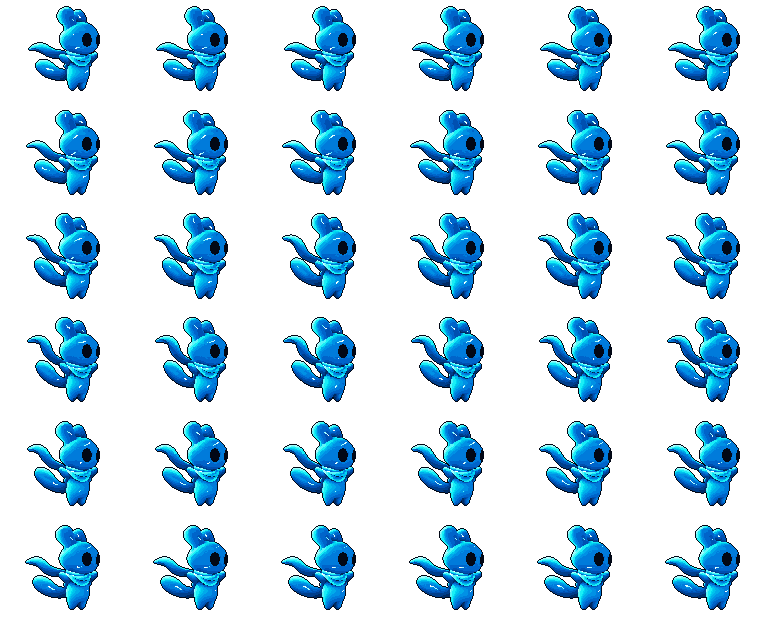
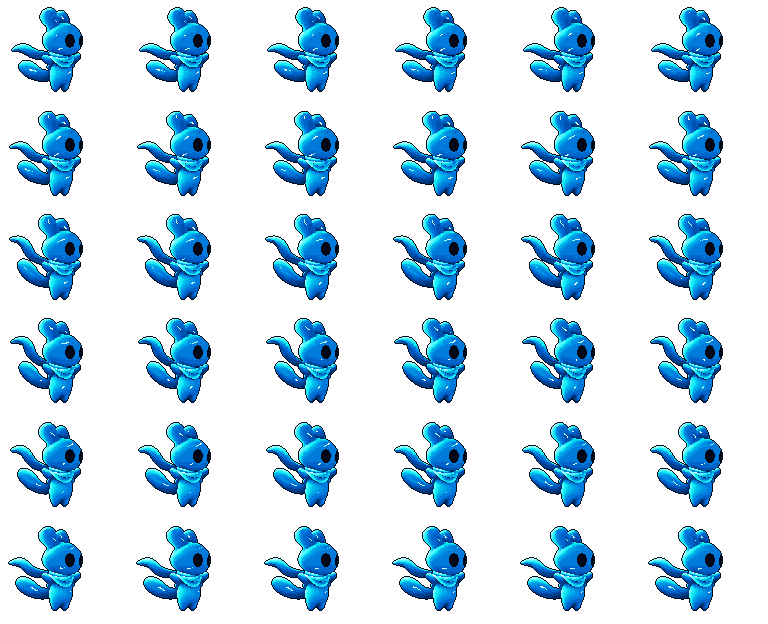
fix(art): 게임 점프 시트의 idle 기준 위치 정렬
이미 통합된 점프 8개 시트를 정렬 보정본으로 교체했다. 168프레임 픽셀 보존과 잘림 없음, 시트 해시 일치를 확인했다. 게임 로직과 동작 시간은 유지하며 실제 창 재생은 재검사하지 않았다.

diff --git a/docs/art-direction.md b/docs/art-direction.md
@@ -30,7 +30,7 @@
 
 | 대상 | 현재 상태·결과 | 유지할 기준 |
 |---|---|---|
-| 점프 | [v13 hibit v2](../art/warden/provisional-approved/jump-v13-hibit-v2-aligned/review.html) 잠정 승인 | 2026-11-14 사용자 결정. 128×104·공통16색·좌우168프레임, 신체는 동작별6포즈. 시작200ms·상승300ms·낙하600ms 반복·착지300ms, 전류 주기600ms. Start→Rise·Rise→Fall 출력 실루엣 차이0픽셀과 연속 전류를 유지한다. 전체 연결·좌우·프레임 검토를 포함해 별도 보관했으며 원본 복사 해시가 일치한다. 후속 사용자 요청으로 게임에 연결했다. 시작200ms·착지300ms를 행동 잠금에 포함하고 상승 원본300ms는 기존 정점400ms에 맞춰 재생한다. 기존 후보와 폐기 v1~v12는 보존한다. |
+| 점프 | [v13 hibit v2](../art/warden/provisional-approved/jump-v13-hibit-v2-aligned/review.html) 잠정 승인 | 2026-11-14 사용자 결정. 128×104·공통16색·좌우168프레임, 신체는 동작별6포즈. 시작200ms·상승300ms·낙하600ms 반복·착지300ms, 전류 주기600ms. Start→Rise·Rise→Fall 출력 실루엣 차이0픽셀과 연속 전류를 유지한다. 전체 연결·좌우·프레임 검토를 포함해 별도 보관했으며 원본 복사 해시가 일치한다. 후속 사용자 요청으로 게임에 연결했다. 정렬 수정 요청으로 오른쪽−17,+1px·왼쪽+17,+1px 평행 이동한 8개 시트로 교체했다. 168프레임 픽셀 보존·잘림 없음·반전 일치와 게임 시트 해시를 확인했다. 시작200ms·착지300ms를 행동 잠금에 포함하고 상승 원본300ms는 기존 정점400ms에 맞춰 재생한다. 기존 후보와 폐기 v1~v12는 보존한다. |
 | idle | [비무장 v7](../art/warden/provisional-approved/idle-unarmed-v7/unarmed/preview.gif) 잠정 승인 | idle 중 비발검, hibit·16색, 128×104, 48프레임·2초 |
 | 측면 idle | [망토 바람 v2](../art/warden/provisional-approved/idle-side-wind-v2/review.html) 잠정 승인 | 2026-11-13 사용자 결정. Run과 동일한 측면 원화·비무장·hibit 16색, 128×104, 방향별 48프레임·2초. 망토 끝으로 약한 바람 물결을 추가했다. 96개 프레임·시트를 원본과 해시가 같게 보관했다. 기존 idle v7의 승인·원본은 보존하고 후속 사용자 요청으로 게임 idle을 이 시트로 교체했다. 오른쪽 시트와 기존 런타임 반전을 사용한다. 코드 변형이며 천의 접힘·충돌은 미계산 |
 | 걷기 | [좌우 v4](../art/warden/provisional-approved/walk-v4/both.gif) 잠정 승인 | 짧은 다리·둥근 골반, 128×104, 방향별 24프레임·1초 |

diff --git a/docs/progress.md b/docs/progress.md
@@ -4,7 +4,7 @@
 
 ## 현재 단계
 
-- **점프 hibit v2 게임 통합 완료:** 사용자 요청으로 basic-gameplay에서 승인 좌우8개 시트/168프레임을 복사·연결했다. 후속 답변대로 시작200ms 후 이륙·착지300ms 잠금, 높이166/상승400ms/공중A/D·대시는 유지한다. 자산/단계/시간분할/잠금/대시 복귀 검사와 실제 SDL 시작·상승·낙하·착지 캡처를 확인했다. 원본/독립 idle·Run과 사용자 tmp 파일은 보존한다. 사용자 직접 조작감·전환 품질은 미확인이다.
+- **점프 hibit v2 게임 통합·정렬 보정:** 사용자 요청으로 basic-gameplay에서 승인 좌우8개 시트/168프레임을 복사·연결했다. 후속 답변대로 시작200ms 후 이륙·착지300ms 잠금, 높이166/상승400ms/공중A/D·대시는 유지한다. 자산/단계/시간분할/잠금/대시 복귀 검사와 실제 SDL 시작·상승·낙하·착지 캡처를 확인했다. 원본/독립 idle·Run과 사용자 tmp 파일은 보존한다. 후속 정렬 요청으로 idle에 맞춰 오른쪽−17,+1px·왼쪽+17,+1px 보정한 시트 8개를 교체했다. 168프레임 픽셀 보존과 게임 자산 해시 일치를 확인했으며 이번 위치 보정의 실제 게임 재생은 미검사다. 사용자 직접 조작감·전환 품질은 미확인이다.
 
 - **막힌 방향 대시 효과 억제:** 사용자 요청으로 이동 시작 시 해당 방향의 이동 여유가 없으면 전류 효과를 생성하지 않는다. 모션·잠금은 유지하며 양쪽 경계/안쪽 대시/경계 직전·효과 수명 통합 검사4개를 통과했다.
 
